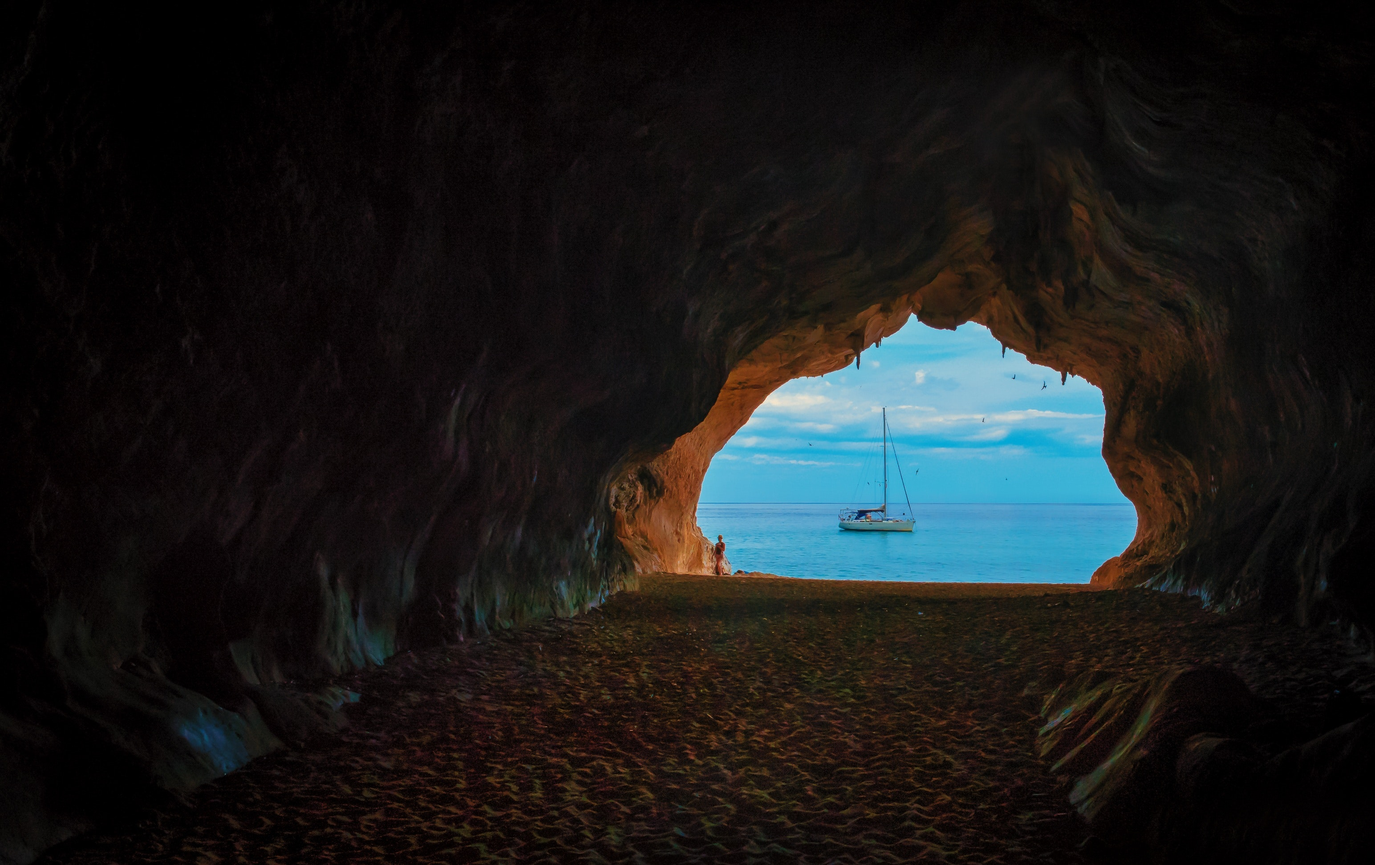
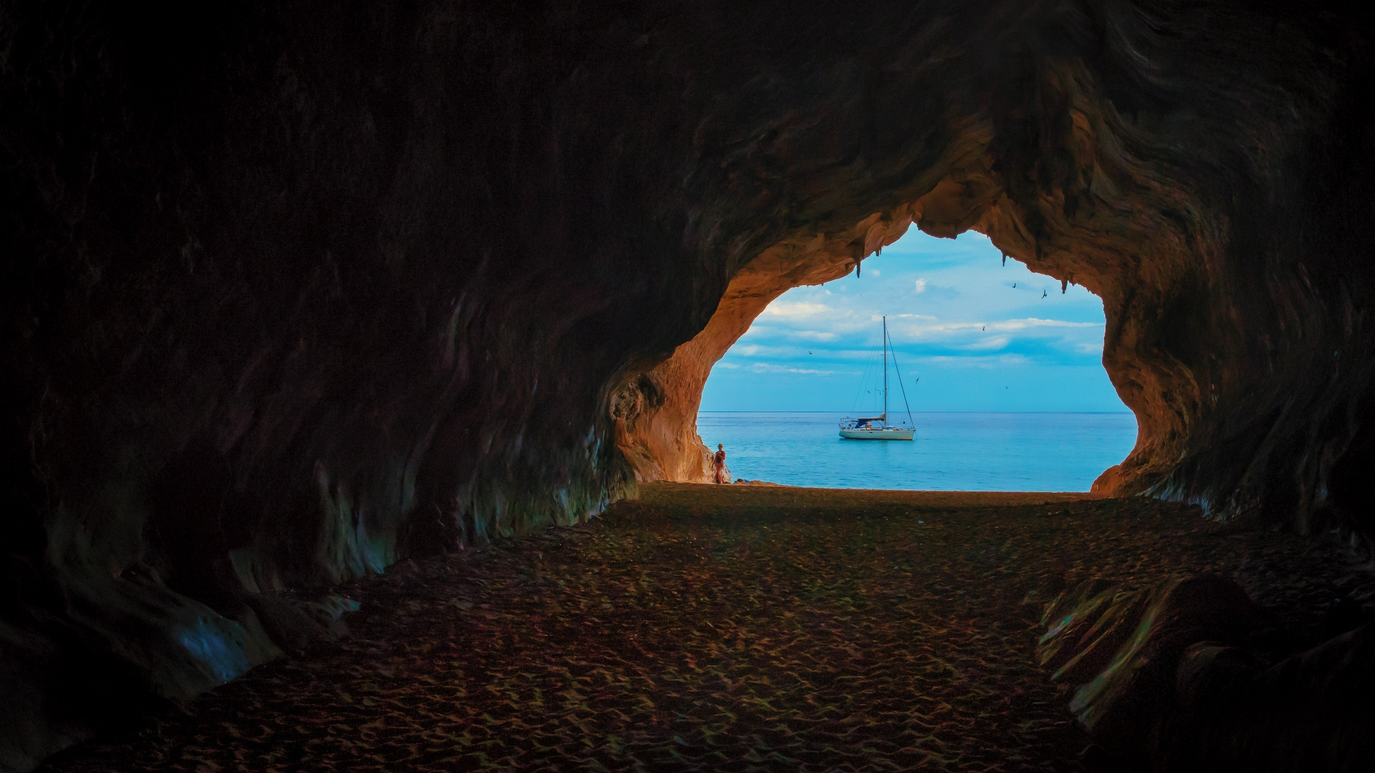
main

diff --git a/pagBrasil/index.html b/pagBrasil/index.html
@@ -95,14 +95,15 @@
               <div class="row">
                 <div class="col">
                   <h2>
-                    Ensolarado e imponente, o ano todo
+                    Descubra a beleza do Brasil em um cruzeiro inesquecível
                   </h2>
-                  <p>Se você está em busca de um destino deslumbrante que combine cultura, história, paisagens
-                     deslumbrantes e gastronomia de classe mundial, não há lugar melhor para explorar do que o Mediterrâneo.
-                     E não há forma mais emocionante e luxuosa de vivenciar essa região diversificada do que em um cruzeiro.</p>
+                  <p>Prepare-se para uma aventura única enquanto navega pelas águas cristalinas do Brasil,
+                     explorando um dos destinos mais fascinantes do mundo. Em um cruzeiro pelo Brasil, você 
+                     terá a oportunidade de vivenciar paisagens deslumbrantes, praias paradisíacas, cidades 
+                     vibrantes e uma cultura rica e diversificada.</p>
                  </div>
                 <div class="col">
-                  <img src="../img/santorini.jpg" width="550px">
+                  <img src="../img/praia rj.jpg" width="530px">
                 </div>
               </div>
             </div>
@@ -110,19 +111,25 @@
             <div class="container text-center" style="margin-top: 4%;">
               <div class="row">
                 <div class="col">
-                  <img src="../img/pexels-troy-squillaci-3728022.jpg" width="550px">
+                  <img src="../img/rio-g62c373b65_1920.jpg" width="550px">
                 </div>
                 <div class="col">
                   <h2 style="text-align: right;">
-                    Calor e vida noturna, todos os dias
+                    Belezas naturais e cultura vibrante
                   </h2>
-                  <p style="text-align: right;">Além disso, um cruzeiro pelo Mediterrâneo oferece a oportunidade de explorar a rica cultura
-                     da região. Você pode passear pelas ruas estreitas de Barcelona e se maravilhar com a arquitetura 
-                     de Gaudí, visitar a majestosa Acrópole de Atenas, na Grécia, ou passear pelas ruínas de Pompeia, 
-                     na Itália, e testemunhar a história ganhando vida diante de seus olhos.</p>
-                  <p style="text-align: right;">Enquanto estiver a bordo do navio, você será mimado com uma variedade de amenidades luxuosas. Desfrute de refeições
-                     gourmet preparadas por chefs renomados, relaxe nas piscinas de borda infinita, desfrute de tratamentos de spa
-                      rejuvenescedores e desfrute de entretenimento de classe mundial todas as noites.</p>
+                  <p style="text-align: right;">Uma das paradas obrigatórias em um cruzeiro pelo Brasil é a 
+                    cidade maravilhosa, o Rio de Janeiro. Aqui, você terá a oportunidade de explorar as famosas
+                     praias de Copacabana e Ipanema, subir o Pão de Açúcar para apreciar uma vista panorâmica
+                      deslumbrante ou visitar o icônico Cristo Redentor, uma das Sete Maravilhas do Mundo Moderno.</p>
+                  <p style="text-align: right;">A diversidade cultural do Brasil também se reflete em sua gastronomia. 
+                    A bordo do seu cruzeiro, você terá a oportunidade de desfrutar de deliciosos pratos da culinária 
+                    brasileira, desde os sabores exóticos da Bahia até os churrascos tradicionais do sul do país.
+                    Prepare-se para se deliciar com uma variedade de pratos incríveis que representam a rica mistura
+                     de influências culturais do Brasil. </p>
+                     <p style="text-align: right;">Então, se você está em busca de uma experiência inesquecível, 
+                      repleta de paisagens deslumbrantes, cultura rica e praias paradisíacas, um cruzeiro pelo Brasil 
+                      é a escolha perfeita. Permita-se ser transportado para um mundo de maravilhas tropicais enquanto
+                       desfruta de uma viagem de luxo sem igual. Embarque em uma jornada mágica pelo Brasil e crie memórias.</p>
                  </div>
               </div>
             </div>

diff --git a/pagMediterraneo/index.html b/pagMediterraneo/index.html
@@ -132,14 +132,14 @@
       <div class="cartoes">
         <div class="col">
           <div class="card" style="width: 18rem;">
-            <img src="../img/uruguai.jpg" class="card-img-top" alt="...">
+            <img src="../img/israel.jpg" class="card-img-top" alt="...">
             <div class="card-body">
-              <h4 class="card-text" style="font-size: 25px;">América do Sul</h4>
-              <h4 class="card-text">Brasil, Uruguai e Argentina</h4>
-              <h5 class="card-text">Embarcando em Santos</h5>
-              <p class="card-text">Data do embarque <br> 06 de janeiro de 2024</p>
+              <h4 class="card-text" style="font-size: 25px;">Mediterrâneo</h4>
+              <h4 class="card-text">Turquia, Grécia, Chipre e Israel</h4>
+              <h5 class="card-text">Embarcando em Istambul</h5>
+              <p class="card-text">Data do embarque <br> 16 de maio de 2024</p>
               <p class="card-text">Preço por pessoa</p>
-              <p class="card-text" id="precoPassagem">R$3.706</p>
+              <p class="card-text" id="precoPassagem">R$4.737</p>
               <P class="card-text">Tarifas marítimas, taxas de serviço e portuárias inclusas</P>
             </div>
           </div>
@@ -147,14 +147,14 @@
 
         <div class="col">
           <div class="card" style="width: 18rem;">
-            <img src="../img/argentina.jpg" class="card-img-top" alt="...">
+            <img src="../img/malta.jpg" class="card-img-top" alt="...">
             <div class="card-body">
-              <h4 class="card-text" style="font-size: 25px;">América do Sul</h4>
-              <h4 class="card-text">Brasil, Uruguai e Argentina</h4>
-              <h5 class="card-text">Embarcando em Itajaí</h5>
-              <p class="card-text">Data do embarque <br> 11 de fevereiro de 2024</p>
+              <h4 class="card-text" style="font-size: 25px;">Mediterrâneo</h4>
+              <h4 class="card-text">Itália, Malta e <br>Tunísia</h4>
+              <h5 class="card-text">Embarcando em Bari</h5>
+              <p class="card-text">Data do embarque <br> 27 de março de 2024</p>
               <p class="card-text">Preço por pessoa</p>
-              <p class="card-text" id="precoPassagem">R$3.057</p>
+              <p class="card-text" id="precoPassagem">R$3.853</p>
               <P class="card-text">Tarifas marítimas, taxas de serviço e portuárias inclusas</P>
             </div>
           </div>

diff --git a/pagInicio/index.html b/pagInicio/index.html
@@ -236,7 +236,9 @@
       <h3>Destinos que todo mundo ama!</h3>
 
       <div class="imagem-mediterraneo">
-        <img src="../img/mediterraneo.jpg" width="1190px" height="400px">
+        <a href="../pagMediterraneo/index.html">
+          <img src="../img/mediterraneo.jpg" width="1190px" height="400px">
+        </a>
         <h1>Mediterrâneo</h1>
       </div>
 
@@ -246,7 +248,9 @@
           <h1>Caribe</h1>
         </div>
         <div class="brasil">
-          <img src="../img/salvador-bahia.jpg" width="390px" height="266px">
+          <a href="../pagBrasil/index.html">
+            <img src="../img/salvador-bahia.jpg" width="390px" height="266px">
+          </a>
           <h1>Brasil</h1>
         </div>
         <div class="ilhas-gregas">

diff --git a/pagBrasil/style.css b/pagBrasil/style.css
@@ -16,7 +16,8 @@
 .hero {
     width: 100%;
     height: 100vh;
-    background-image: linear-gradient(rgba(12,3,51,0.3), rgba(12,3,51,0.3));
+    background-image: url(../img/beach.jpg);
+    background-position: center;
     position: relative;
     padding: 0 5%;
     display: flex;
@@ -138,7 +139,7 @@ nav ul li:hover {
 
 main {
     width: 100%;
-    height: 300vh;
+    height: 310vh;
     position: relative;
     padding: 0 5%;
     margin-top: 4%;

diff --git a/pagMediterraneo/style.css b/pagMediterraneo/style.css
@@ -16,7 +16,8 @@
 .hero {
     width: 100%;
     height: 100vh;
-    background-image: linear-gradient(rgba(12,3,51,0.3), rgba(12,3,51,0.3));
+    background-image: url(../img/mediterraneo-1.jpg);
+    background-position: center;
     position: relative;
     padding: 0 5%;
     display: flex;

diff --git a/pagEscolhaCruzeiro/style.css b/pagEscolhaCruzeiro/style.css
@@ -260,9 +260,10 @@ main {
     justify-content: center;
     align-items: center;
     flex-direction: row;
-    margin: 10px 0px 30px 0px;
+    margin: 10px 30px 30px 0px;
     overflow: hidden;
 }
+
 .box-img {
     padding: 0px 0.5% 0px 0.5%;
 }
